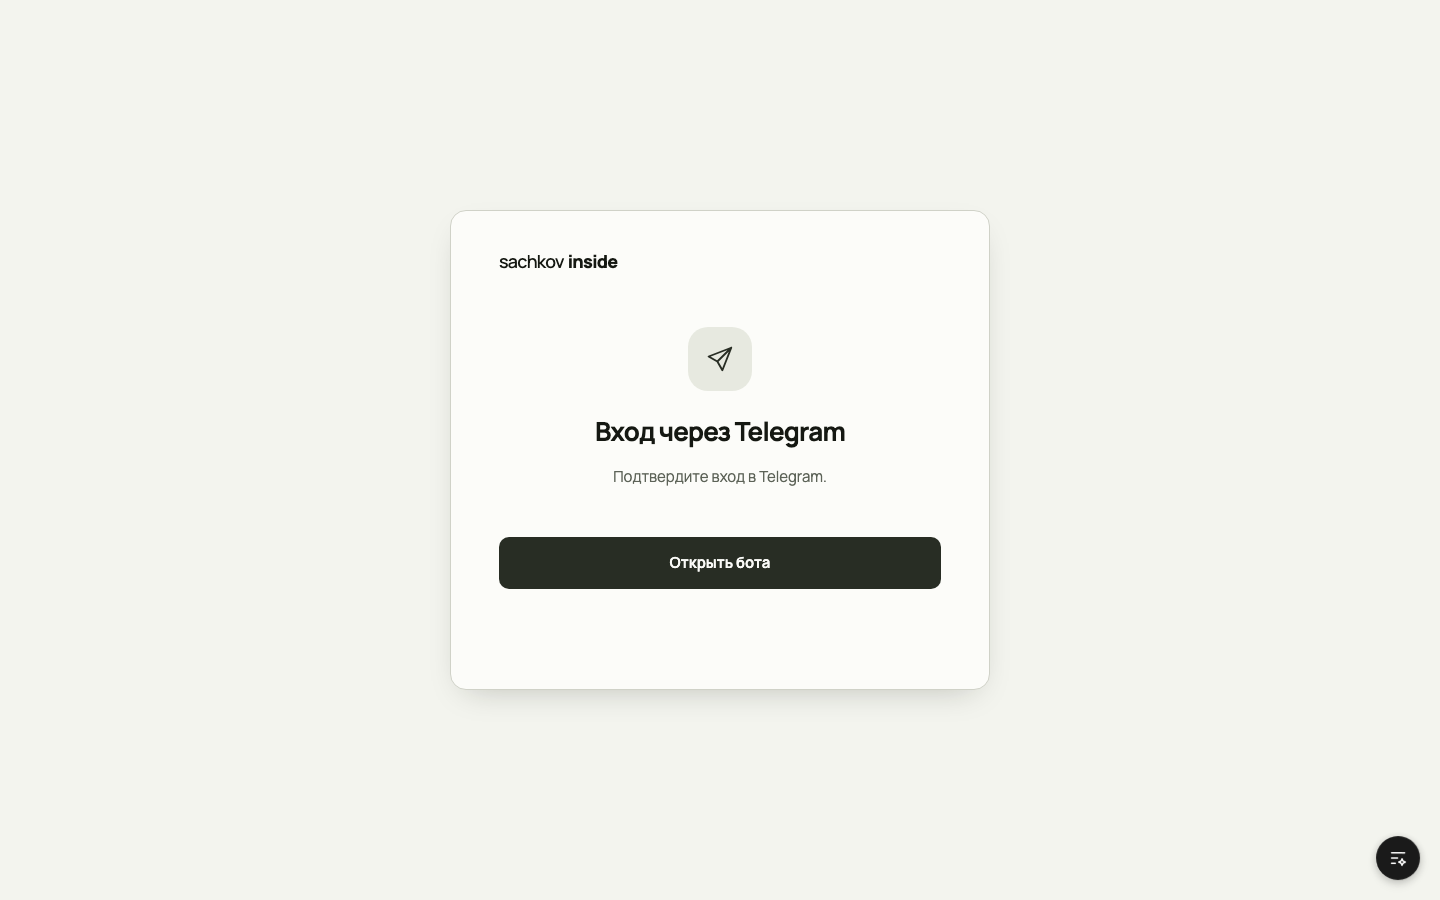
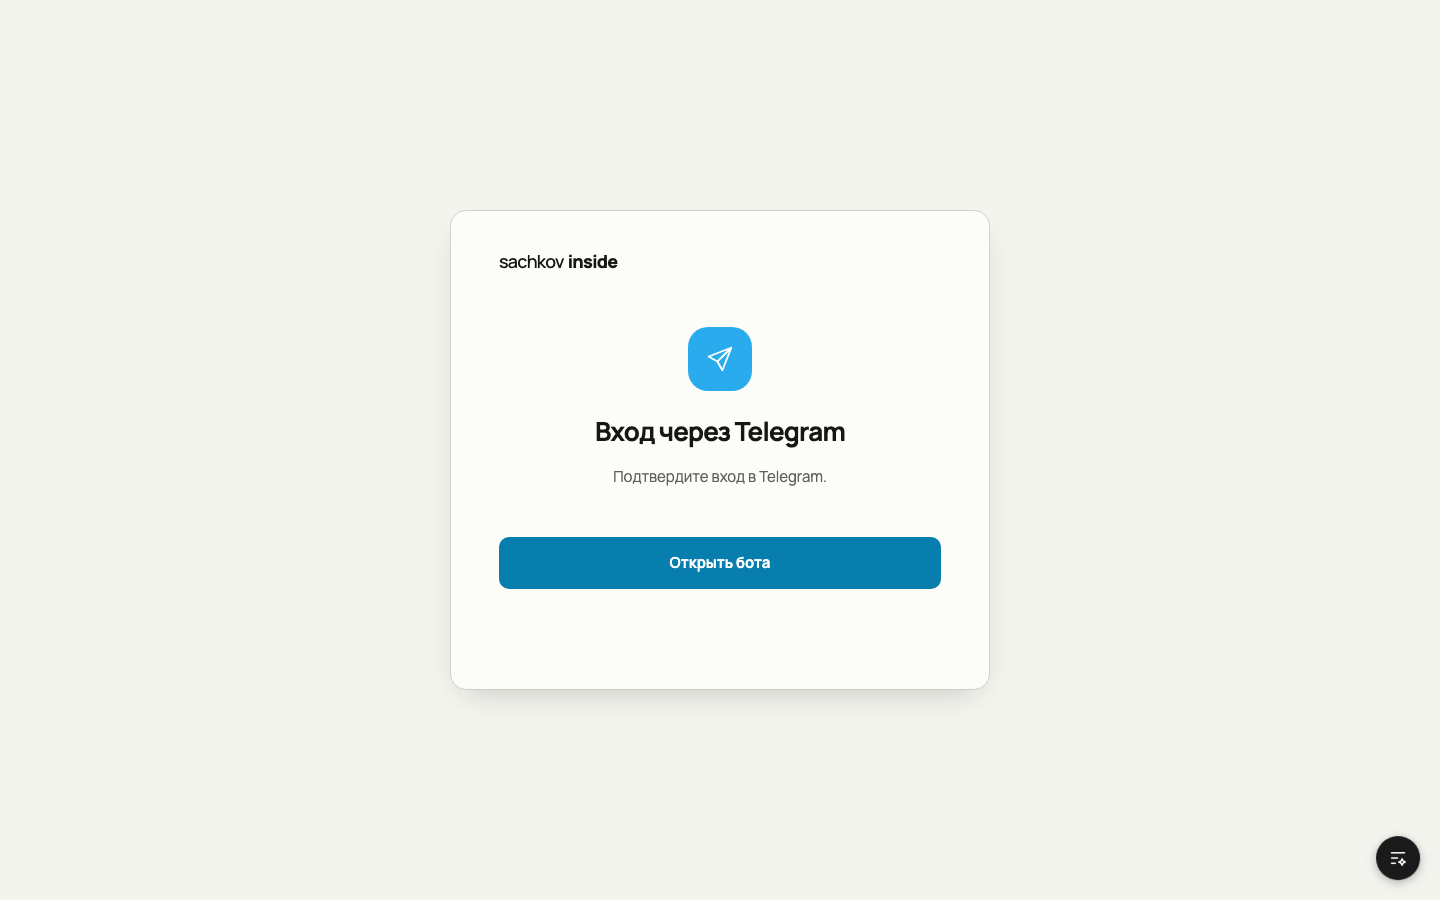
style: use Telegram blue for the sign-in action

Changed region(s): [[0.3438, 0.5911, 0.6562, 0.6533], [0.4688, 0.3422, 0.5312, 0.4356]]

diff --git a/infra/identity/logto/fork/packages/core/src/routes/inside-telegram-view.ts b/infra/identity/logto/fork/packages/core/src/routes/inside-telegram-view.ts
@@ -58,12 +58,14 @@ export const telegramSignInStyles = `${telegramSignInTheme}
 .inside-telegram-brand{font-size:18px;font-weight:500;letter-spacing:-.7px;line-height:28px}
 .inside-telegram-brand span{font-weight:800;margin-left:4px}
 .inside-telegram-content{padding-top:52px;text-align:center}
-.inside-telegram-symbol{display:grid;place-items:center;width:64px;height:64px;margin:0 auto 24px;border-radius:20px;background:var(--secondary);color:var(--primary)}
+.inside-telegram-symbol{display:grid;place-items:center;width:64px;height:64px;margin:0 auto 24px;border-radius:20px;background:#2aabee;color:#fff}
 .inside-telegram h1{margin:0;font:700 26px/1.3 'Inside Manrope',system-ui,sans-serif;letter-spacing:-.8px}
 .inside-telegram-status{min-height:48px;margin:16px 0 24px;color:var(--muted-foreground);font-size:15px;line-height:24px;text-wrap:balance}
 .inside-telegram-actions{height:52px;display:grid;place-items:center}
 .inside-telegram-button{display:flex;align-items:center;justify-content:center;width:100%;min-height:52px;padding:12px 16px;border:1px solid transparent;border-radius:10px;background:var(--primary);color:var(--primary-foreground);font-weight:650;font-size:15px;line-height:24px;text-decoration:none}
 .inside-telegram-button:hover{filter:brightness(1.15)}
+.inside-telegram #bot{background:#087eaf;color:#fff}
+.inside-telegram #bot:hover{background:#076b95;filter:none}
 .inside-telegram-button:focus-visible{outline:3px solid var(--ring);outline-offset:4px}
 .inside-telegram-progress{width:22px;height:22px;border:2px solid var(--border);border-top-color:var(--primary);border-radius:50%;animation:inside-telegram-spin 1s linear infinite}
 @keyframes inside-telegram-spin{to{transform:rotate(360deg)}}
